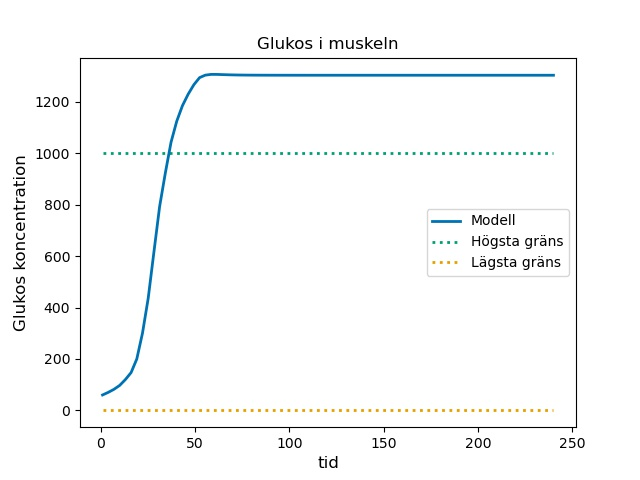
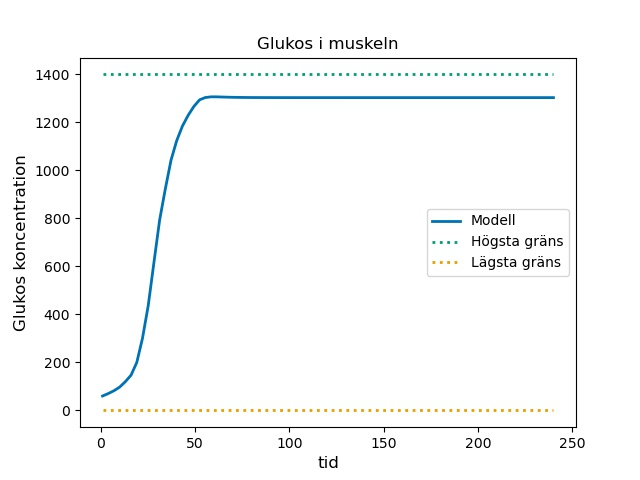
finishing touches

diff --git a/optimering/week16_open_loop_optimering.py b/optimering/week16_open_loop_optimering.py
@@ -336,7 +336,7 @@ yC2_coordinates = [1000,1000]  # mmol (human)
 
  # Constrains glukos i muskel (M) 
 yM1_coordinates = [0,0]    # mmol (human)
-yM2_coordinates = [1000,1000]  # mmol (human)
+yM2_coordinates = [1400,1400]  # mmol (human)
 
  # Constrains glucose intake (H)
 yH1_coordinates = [0,0]    
